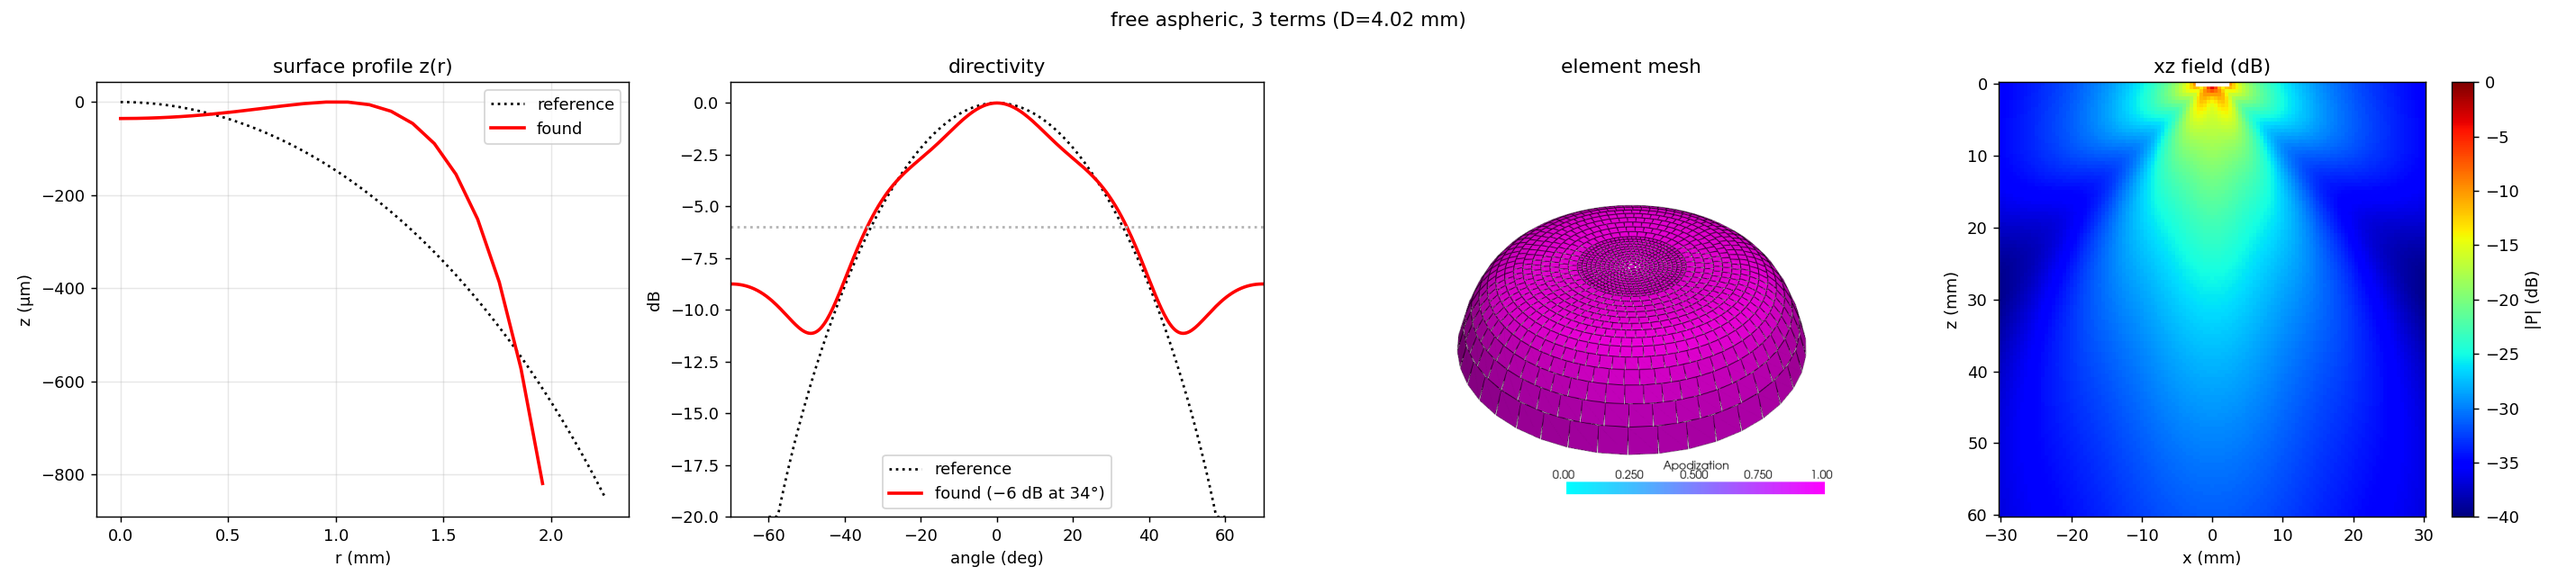
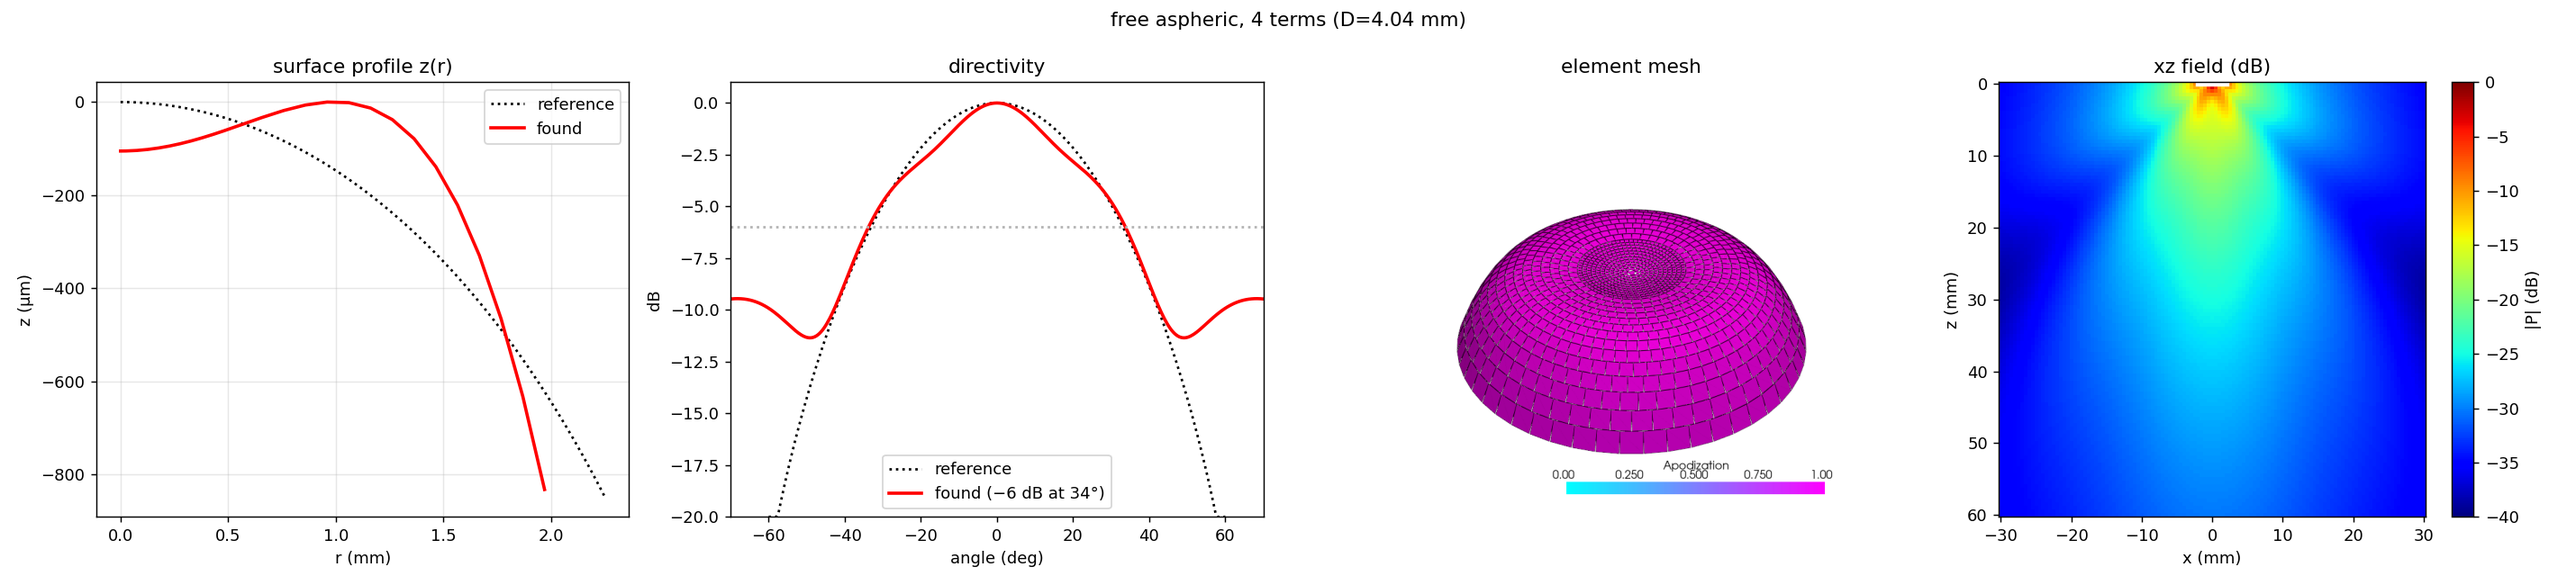
fix(examples): free aspheric uses 4 terms, matching the richer dimpled fit

diff --git a/examples/example23_optimize_radial_element.py b/examples/example23_optimize_radial_element.py
@@ -12,7 +12,7 @@ bell crossing −6 dB at 33.17°):
    (Snell) model to one effective cap ``z(r) = −(n₂−n₁)·(R−√(R²−r²))`` (no optimization).
 2. **spherical cap (r²)** — a single-term convex cap ``z(r) = −λ·c₀·(r/R)²``, with
    ``c₀`` and the diameter tuned to the bell.
-3. **free aspheric** — three even-power terms ``z(r) = −λ·Σ c_k·(r/R)^{2(k+1)}``, tuned
+3. **free aspheric** — four even-power terms ``z(r) = −λ·Σ c_k·(r/R)^{2(k+1)}``, tuned
    freely (coefficients may go negative, giving a non-convex aspheric surface).
 
 The surface is even in ``r`` (axisymmetric, apex pinned to z=0), so only even powers
@@ -147,14 +147,14 @@ el_refr = RadialProfileTransducer(
     refine_factor=2,
 )
 D_sph, c_sph = optimize_cap(1, (0.0, 3.0))  # strictly r², convex → unique physical cap
-D_asp, c_asp = optimize_cap(3, (-3.0, 3.0))  # free even polynomial, may be non-convex
+D_asp, c_asp = optimize_cap(4, (-3.0, 3.0))  # free even polynomial, may be non-convex
 el_sph = make_element(D_sph, c_sph)
 el_asp = make_element(D_asp, c_asp)
 
 models = [
     (el_refr, "refractive doublet (D=4.50 mm)", "refraction"),
     (el_sph, f"spherical cap r² (D={D_sph:.2f} mm)", "spherical"),
-    (el_asp, f"free aspheric, 3 terms (D={D_asp:.2f} mm)", "aspheric"),
+    (el_asp, f"free aspheric, 4 terms (D={D_asp:.2f} mm)", "aspheric"),
 ]
 for el, name, _tag in models:
     print(f"  {name:34s} -6 dB = {half_angle_deg(directivity_db(el)):.1f} deg")

diff --git a/docs/examples/example23_optimize_radial_element.md b/docs/examples/example23_optimize_radial_element.md
@@ -16,7 +16,7 @@ builds three candidate caps and compares each against the paper's measured direc
    (Snell) model to one effective cap `z(r) = −(n₂−n₁)·(R−√(R²−r²))` (no optimization).
 2. **spherical cap (r²)** — a single convex term `z(r) = −λ·c₀·(r/R)²`, with `c₀` and
    the diameter tuned to the bell.
-3. **free aspheric** — three even-power terms `z(r) = −λ·Σ cₖ(r/R)^{2(k+1)}`, tuned
+3. **free aspheric** — four even-power terms `z(r) = −λ·Σ cₖ(r/R)^{2(k+1)}`, tuned
    freely (coefficients may go negative → a non-convex aspheric surface).
 
 [Source on GitHub](https://github.com/EstebanRivera08/eSDIva/blob/main/examples/example23_optimize_radial_element.py)
